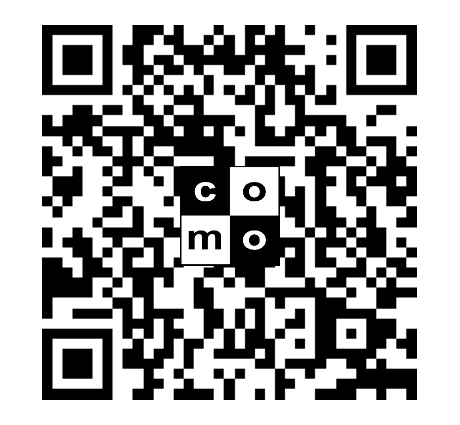
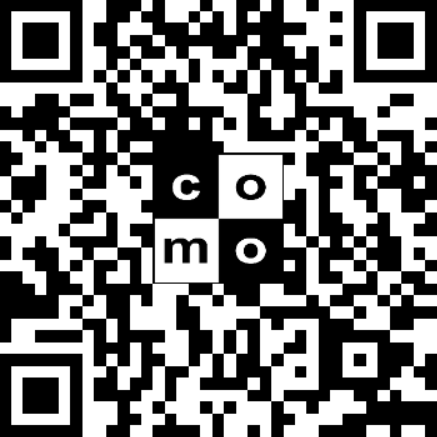
Feat: Se genero el nuevo QR

diff --git a/index.html b/index.html
@@ -116,7 +116,7 @@
                                 <option value="GERENCIA">Gerencia General</option>
                                 <option value="Jefe_Administrativo">Jefe Administrativo</option>
                                 <option value="Asistencia_Gerencia">Asistencia a la Gerencia</option>
-                                <option value="GERENCIA">Gerencia Administrativa</option>
+                                <option value="GERENCIA">Gerente Administrativo</option>
                                 <option value="GERENCIA">Encargado de Sucursal</option>
                                 <option value="TALLER">Taller</option>
                                 <option value="SUPERVISOR_MIXTO">Supervisor Mixto</option>
@@ -174,6 +174,7 @@
                                 </h5>
 
                                 <!-- TODO: Para informacion de empleado -->
+                                
                                 <ul class="pt-3">
                                     <li>
                                         <i class="fas fa-envelope email-box p-2 m-2 "></i>

diff --git a/Css/Generador.css b/Css/Generador.css
@@ -250,7 +250,7 @@ button:active {
 
 /* PARA UBICACION DEL QR */
 #Qr_Ubicacion_img-generada {
-    width: 200px;
+    width: 170px;
 
 }
 
